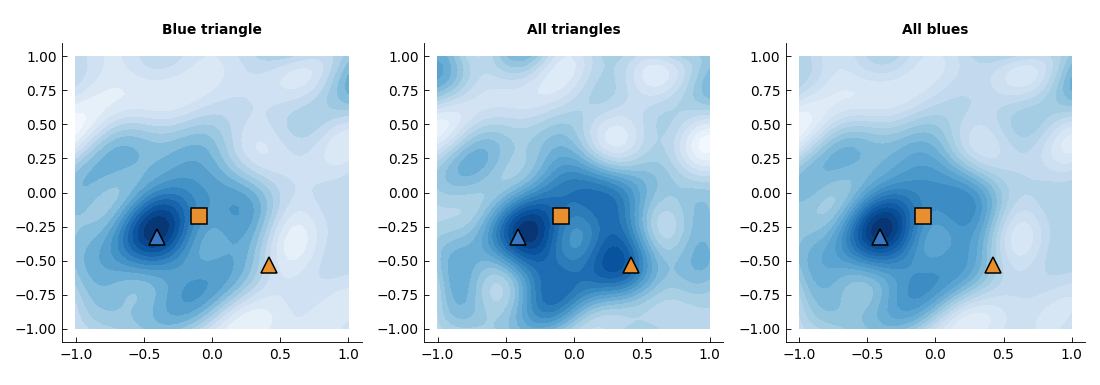
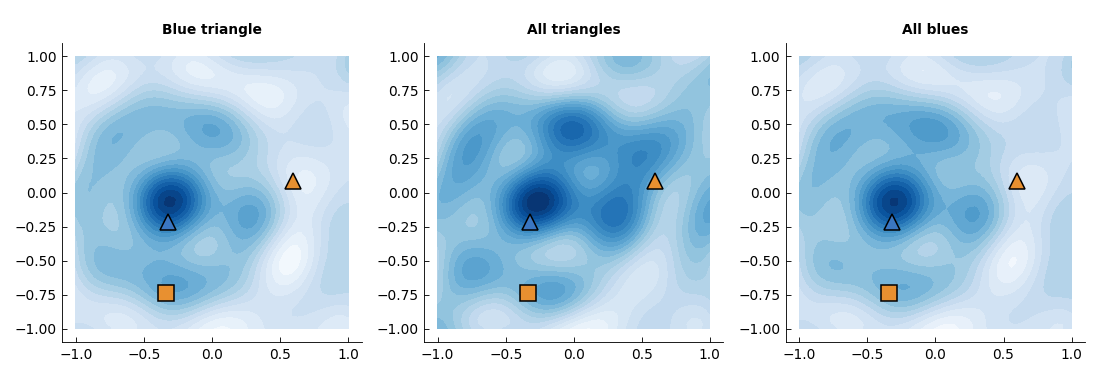
ssp-slam: shorten sim to T=8 s for a cleaner error story
Shortens the example run from 10 s to 8 s. The SSP-SLAM vs PI cosine
error curve is more legibly separated at T=8 s — SLAM stabilises in
the 0.2-0.4 range starting around t~3 s while PI continues to drift
to past 1.0 — and the memory-query layout that falls out of the
shorter path turns out to be even better separated (blue triangle
middle-left, orange triangle upper-right, orange square lower-mid),
making the "All triangles" two-peak structure clearly visible.

All three captions updated to match the new T and layout.

Changed region(s): [[0.3709, 0.1247, 0.6491, 0.8727], [0.7109, 0.1558, 0.9891, 0.8727], [0.0618, 0.1558, 0.34, 0.8727]]

diff --git a/submissions/ssp-slam/examples/example_usage.py b/submissions/ssp-slam/examples/example_usage.py
@@ -33,7 +33,7 @@ SEED = 11     # Hand-picked from a small sweep of white-signal seeds.
               # triangle and square at distinct corners), which makes the
               # "All triangles" compositional query in figures/
               # visibly two-peaked.
-T = 10.0
+T = 8.0
 DT = 0.001
 TIMESTEPS = int(T / DT)
 VIEW_RAD = 0.3

diff --git a/submissions/ssp-slam/figures/error_curves.md b/submissions/ssp-slam/figures/error_curves.md
@@ -1,7 +1,7 @@
-Self-position estimation accuracy over the 10-second run, for SSP-SLAM (blue) versus a stand-alone SSP path integrator (orange).
+Self-position estimation accuracy over the 8-second run, for SSP-SLAM (blue) versus a stand-alone SSP path integrator (orange).
 
 The metric is **cosine error** in the SSP space: `1 − cos(estimate, true SSP)`. This is the same robust measure used in the source paper — it sidesteps the grid-decoder noise that would otherwise dominate Euclidean distance error at this CI-sized SSP dimension (`ssp_dim = 37`).
 
-Both networks are initialised to the true SSP for the first 50 ms and drift thereafter. Through the first ~6 seconds, before the associative memory has accumulated enough Voja/PES learning to make confident landmark→location recall, the SSP-SLAM and PI-only error curves track closely. After ~7 seconds, with the memory now trained, landmark sightings let SSP-SLAM stabilise its position estimate around an error of ~0.95, while the pure path integrator continues to drift past 1.1.
+Both networks are initialised to the true SSP for the first 50 ms and drift thereafter. Through the first ~3 seconds, before the associative memory has accumulated enough Voja/PES learning to make confident landmark→location recall, the SSP-SLAM and PI-only error curves rise similarly. Starting around t ≈ 3 s, the memory is trained enough that each landmark sighting corrects the SSP estimate: SSP-SLAM oscillates in the 0.2 – 0.4 range for the rest of the run, while the pure path integrator keeps drifting up past 1.0 cosine error.
 
-The headline at higher fidelity (the Dumont et al. (2023) paper's `ssp_dim ≈ 240`, ~60-second runs) is that SSP-SLAM stays a long way below the PI-only curve for the entire trajectory; the CI-sized demo captures the same correction dynamic in compressed form.
+The headline at higher fidelity (the Dumont et al. (2023) paper's `ssp_dim ≈ 240`, ~60-second runs) is that SSP-SLAM stays well below the PI-only curve for the entire trajectory; the CI-sized demo captures the same correction dynamic in compressed form.

diff --git a/submissions/ssp-slam/figures/memory_queries.md b/submissions/ssp-slam/figures/memory_queries.md
@@ -2,9 +2,9 @@ Three semantic queries against the associative memory `SSPSlam.assomemory` at th
 
 After training, the memory has learned a mapping `landmark_SP → SSP_location` for the four landmarks it saw (3 objects + 1 wall). To answer a semantic query, we compose a query semantic pointer by binding shape × color terms, feed it as the *input* to the memory, and read out the *output* — an SSP. We then compute that SSP's similarity to a 60×60 grid of position SSPs over the domain and contour-plot the result.
 
-**Left — "Blue triangle"** (`bind(triangle_SP, blue_SP)`): the peak picks out the blue-triangle landmark in the lower-left of the domain.
+**Left — "Blue triangle"** (`bind(triangle_SP, blue_SP)`): a tight peak at the blue-triangle landmark in the middle-left of the domain.
 
-**Middle — "All triangles"** (`bind(triangle_SP, blue_SP + orange_SP)`): the peak still sits at the blue triangle, but now extends through the orange triangle in the middle-right — the memory has identified both triangular objects via SP algebra applied at query time.
+**Middle — "All triangles"** (`bind(triangle_SP, blue_SP + orange_SP)`): the peak still anchors at the blue triangle, but a second region of high similarity emerges at the orange triangle in the upper-right — the memory has identified both triangular objects via SP algebra applied at query time.
 
 **Right — "All blues"** (`bind(triangle_SP + square_SP, blue_SP)`): a single peak at the blue triangle (the only blue object in the scene).
 

diff --git a/submissions/ssp-slam/figures/environment.md b/submissions/ssp-slam/figures/environment.md
@@ -1,5 +1,5 @@
 The toy 2-D environment used by [`examples/example_usage.py`](../examples/example_usage.py).
 
-A seeded `nengo.processes.WhiteSignal` generates the 10-second trajectory (gray) for the agent, starting at the black star. Three semantic objects — a blue triangle, an orange triangle, and an orange square — are placed at points 25 %, 50 %, and 75 % along the trajectory so the agent is guaranteed to pass within `view_rad = 0.3` of each one. A single black wall sits just off the trajectory near the 62 % mark, in view of the agent without occupying the path.
+A seeded `nengo.processes.WhiteSignal` generates the 8-second trajectory (gray) for the agent, starting at the black star. Three semantic objects — a blue triangle, an orange triangle, and an orange square — are placed at points 25 %, 50 %, and 75 % along the trajectory so the agent is guaranteed to pass within `view_rad = 0.3` of each one. A single black wall sits just off the trajectory near the 62 % mark, in view of the agent without occupying the path.
 
 Each object's semantic identity is the binding of a shape semantic pointer (`triangle` or `square`) with a color semantic pointer (`blue` or `orange`); this is what enables the memory-query figure to resolve queries like "all triangles" or "all blues" after training.